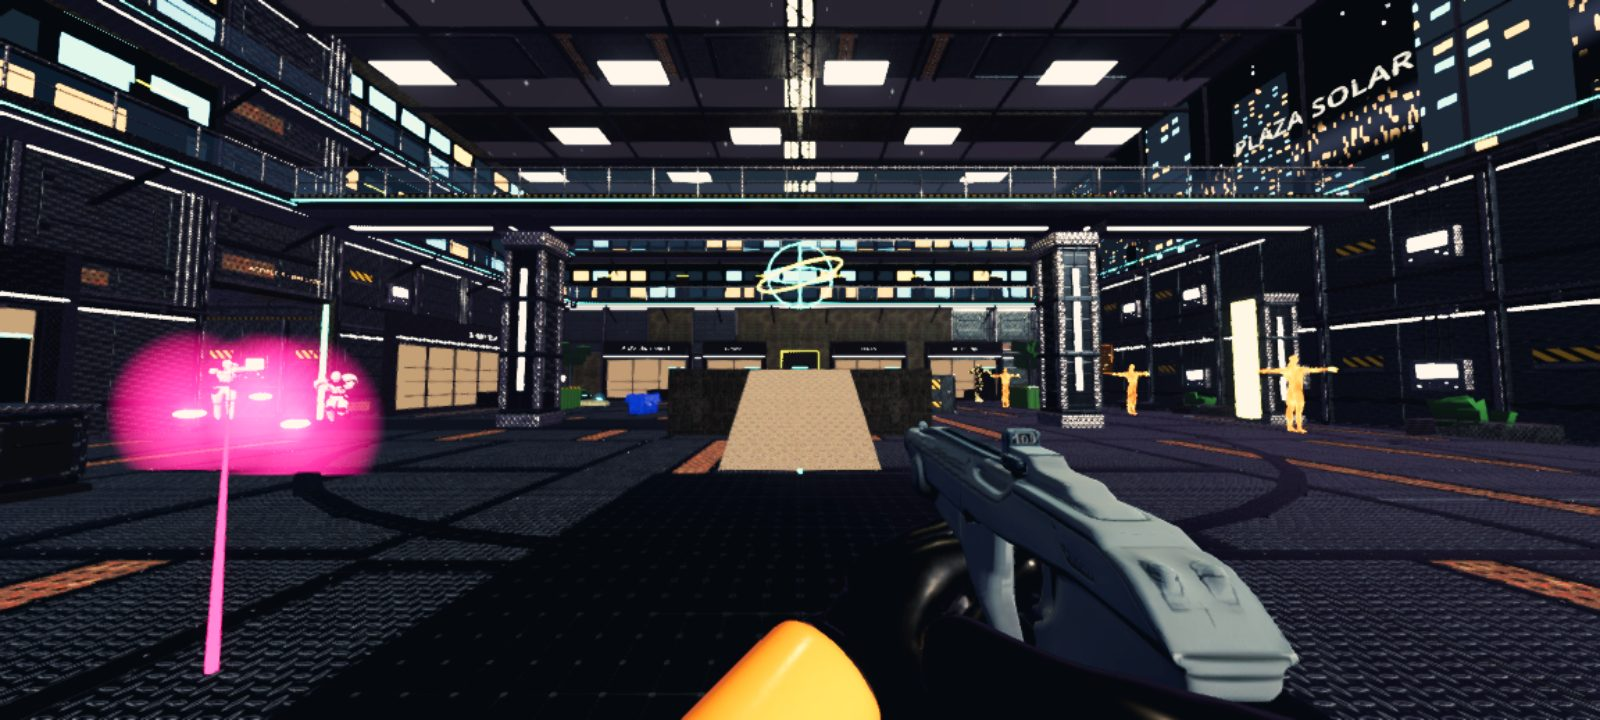
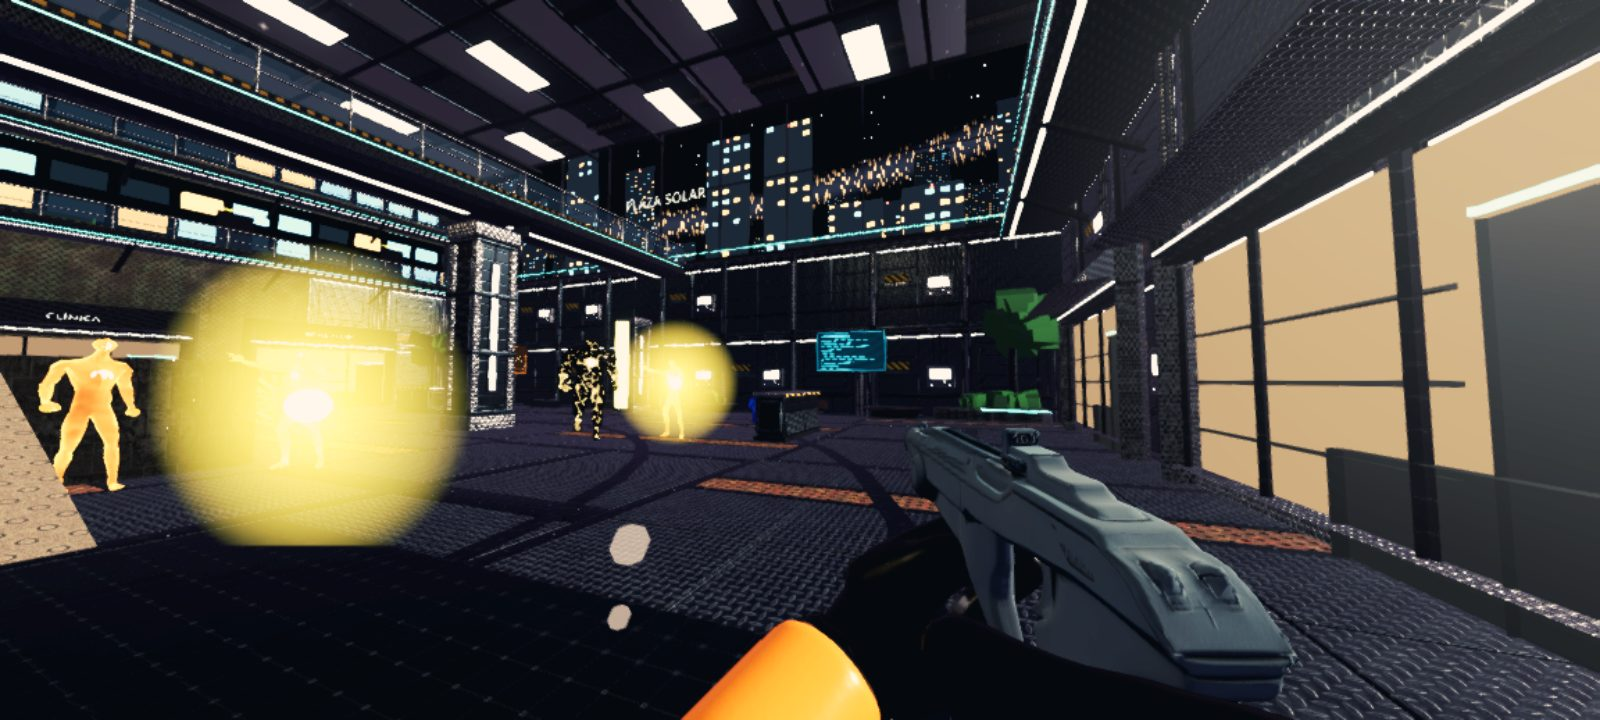
Helios: capturas con los enemigos en movimiento

diff --git a/helios/index.html b/helios/index.html
@@ -71,7 +71,7 @@
       </div>
       <div class="hero-card land-card" data-tilt>
         <div class="glow"></div>
-        <div class="phone land" data-slides><div class="screen"><img src="../img/hr-1-casco.jpg" loading="lazy" alt="Helios: gigantes de plasma en el casco exterior de la estación" width="1600" height="720" decoding="async"><img data-src="../img/hr-2-hangar.jpg" alt="Helios: enemigos esperando en el hangar" width="1600" height="720" decoding="async"><img data-src="../img/hr-3-control.jpg" alt="Helios: la sala de control y la columna de luz" width="1600" height="720" decoding="async"><img data-src="../img/hr-4-ciudad.jpg" alt="Helios: la ciudad de la estación de noche" width="1600" height="720" decoding="async"><img data-src="../img/hr-5-reactor.jpg" alt="Helios: pasillos oxidados junto al reactor" width="1600" height="720" decoding="async"></div></div>
+        <div class="phone land" data-slides><div class="screen"><img src="../img/hr-1-casco.jpg" loading="lazy" alt="Helios: gigantes de plasma atacando en el casco exterior de la estación" width="1600" height="720" decoding="async"><img data-src="../img/hr-2-hangar.jpg" alt="Helios: un gigante de plasma avanza por el hangar" width="1600" height="720" decoding="async"><img data-src="../img/hr-3-control.jpg" alt="Helios: un gigante de plasma en la sala de control" width="1600" height="720" decoding="async"><img data-src="../img/hr-4-ciudad.jpg" alt="Helios: la ciudad de la estación de noche" width="1600" height="720" decoding="async"><img data-src="../img/hr-5-reactor.jpg" alt="Helios: pasillos oxidados junto al reactor" width="1600" height="720" decoding="async"></div></div>
           <div class="dots" aria-label="Capturas"></div>
         <div class="chip c1"><span>🎯</span>Primera persona</div>
         <div class="chip c2"><span>🪐</span>Gravedad cero</div>
@@ -85,7 +85,7 @@
       <span class="kicker reveal">Capturas</span>
       <h2 class="reveal" style="--d:.05s">Una estación muerta junto a una estrella herida</h2>
       <p class="lead reveal" style="--d:.1s">Primera misión, «Luz Muerta»: del casco exterior al pozo del reactor. Desliza para ver más.</p>
-      <div class="shots land reveal" style="--d:.15s"><img src="../img/hr-1-casco.jpg" alt="Gigantes de plasma en el casco exterior de la estación" loading="lazy" width="1600" height="720"><img src="../img/hr-6-gigante.jpg" alt="Un Bramido en el hangar muerto" loading="lazy" width="1600" height="720"><img src="../img/hr-2-hangar.jpg" alt="Enemigos esperando en el hangar" loading="lazy" width="1600" height="720"><img src="../img/hr-3-control.jpg" alt="La sala de control y la columna de luz" loading="lazy" width="1600" height="720"><img src="../img/hr-8-atrio.jpg" alt="La Plaza Solar con el plasma magenta de Halcyon" loading="lazy" width="1600" height="720"><img src="../img/hr-4-ciudad.jpg" alt="La ciudad de la estación de noche" loading="lazy" width="1600" height="720"><img src="../img/hr-7-anillo.jpg" alt="El anillo del reactor" loading="lazy" width="1600" height="720"><img src="../img/hr-5-reactor.jpg" alt="Pasillos oxidados junto al reactor" loading="lazy" width="1600" height="720"></div>
+      <div class="shots land reveal" style="--d:.15s"><img src="../img/hr-1-casco.jpg" alt="Gigantes de plasma atacando en el casco exterior de la estación" loading="lazy" width="1600" height="720"><img src="../img/hr-6-gigante.jpg" alt="Un Bramido carga en el hangar muerto" loading="lazy" width="1600" height="720"><img src="../img/hr-2-hangar.jpg" alt="Un gigante de plasma avanza por el hangar" loading="lazy" width="1600" height="720"><img src="../img/hr-3-control.jpg" alt="Un gigante de plasma en la sala de control" loading="lazy" width="1600" height="720"><img src="../img/hr-8-atrio.jpg" alt="Disparos de plasma en la Plaza Solar" loading="lazy" width="1600" height="720"><img src="../img/hr-4-ciudad.jpg" alt="La ciudad de la estación de noche" loading="lazy" width="1600" height="720"><img src="../img/hr-7-anillo.jpg" alt="El anillo del reactor" loading="lazy" width="1600" height="720"><img src="../img/hr-5-reactor.jpg" alt="Pasillos oxidados junto al reactor" loading="lazy" width="1600" height="720"></div>
     </div>
   </section>
 

diff --git a/en/helios/index.html b/en/helios/index.html
@@ -71,7 +71,7 @@
       </div>
       <div class="hero-card land-card" data-tilt>
         <div class="glow"></div>
-        <div class="phone land" data-slides><div class="screen"><img src="../../img/hr-1-casco.jpg" loading="lazy" alt="Helios: plasma giants on the station’s outer hull" width="1600" height="720" decoding="async"><img data-src="../../img/hr-2-hangar.jpg" alt="Helios: enemies waiting in the hangar" width="1600" height="720" decoding="async"><img data-src="../../img/hr-3-control.jpg" alt="Helios: the control room and the column of light" width="1600" height="720" decoding="async"><img data-src="../../img/hr-4-ciudad.jpg" alt="Helios: the station city at night" width="1600" height="720" decoding="async"><img data-src="../../img/hr-5-reactor.jpg" alt="Helios: rusty corridors next to the reactor" width="1600" height="720" decoding="async"></div></div>
+        <div class="phone land" data-slides><div class="screen"><img src="../../img/hr-1-casco.jpg" loading="lazy" alt="Helios: plasma giants attacking on the station’s outer hull" width="1600" height="720" decoding="async"><img data-src="../../img/hr-2-hangar.jpg" alt="Helios: a plasma giant advances through the hangar" width="1600" height="720" decoding="async"><img data-src="../../img/hr-3-control.jpg" alt="Helios: a plasma giant in the control room" width="1600" height="720" decoding="async"><img data-src="../../img/hr-4-ciudad.jpg" alt="Helios: the station city at night" width="1600" height="720" decoding="async"><img data-src="../../img/hr-5-reactor.jpg" alt="Helios: rusty corridors next to the reactor" width="1600" height="720" decoding="async"></div></div>
           <div class="dots" aria-label="Screenshots"></div>
         <div class="chip c1"><span>🎯</span>First person</div>
         <div class="chip c2"><span>🪐</span>Zero gravity</div>
@@ -85,7 +85,7 @@
       <span class="kicker reveal">Screenshots</span>
       <h2 class="reveal" style="--d:.05s">A dead station next to a wounded star</h2>
       <p class="lead reveal" style="--d:.1s">First mission, “Dead Light”: from the outer hull down to the reactor shaft. Swipe to see more.</p>
-      <div class="shots land reveal" style="--d:.15s"><img src="../../img/hr-1-casco.jpg" alt="Plasma giants on the station’s outer hull" loading="lazy" width="1600" height="720"><img src="../../img/hr-6-gigante.jpg" alt="A Bramido in the dead hangar" loading="lazy" width="1600" height="720"><img src="../../img/hr-2-hangar.jpg" alt="Enemies waiting in the hangar" loading="lazy" width="1600" height="720"><img src="../../img/hr-3-control.jpg" alt="The control room and the column of light" loading="lazy" width="1600" height="720"><img src="../../img/hr-8-atrio.jpg" alt="The Solar Plaza with Halcyon’s magenta plasma" loading="lazy" width="1600" height="720"><img src="../../img/hr-4-ciudad.jpg" alt="The station city at night" loading="lazy" width="1600" height="720"><img src="../../img/hr-7-anillo.jpg" alt="The reactor ring" loading="lazy" width="1600" height="720"><img src="../../img/hr-5-reactor.jpg" alt="Rusty corridors next to the reactor" loading="lazy" width="1600" height="720"></div>
+      <div class="shots land reveal" style="--d:.15s"><img src="../../img/hr-1-casco.jpg" alt="Plasma giants attacking on the station’s outer hull" loading="lazy" width="1600" height="720"><img src="../../img/hr-6-gigante.jpg" alt="A Bramido charges in the dead hangar" loading="lazy" width="1600" height="720"><img src="../../img/hr-2-hangar.jpg" alt="A plasma giant advances through the hangar" loading="lazy" width="1600" height="720"><img src="../../img/hr-3-control.jpg" alt="A plasma giant in the control room" loading="lazy" width="1600" height="720"><img src="../../img/hr-8-atrio.jpg" alt="Plasma fire in the Solar Plaza" loading="lazy" width="1600" height="720"><img src="../../img/hr-4-ciudad.jpg" alt="The station city at night" loading="lazy" width="1600" height="720"><img src="../../img/hr-7-anillo.jpg" alt="The reactor ring" loading="lazy" width="1600" height="720"><img src="../../img/hr-5-reactor.jpg" alt="Rusty corridors next to the reactor" loading="lazy" width="1600" height="720"></div>
     </div>
   </section>
 

diff --git a/index.html b/index.html
@@ -159,7 +159,7 @@
         </div>
         <div class="hero-card game-card land-card reveal" style="--d:.1s" data-tilt>
           <div class="glow"></div>
-          <div class="phone land" data-slides><div class="screen"><img src="img/hr-1-casco.jpg" loading="lazy" alt="Helios: gigantes de plasma en el casco exterior de la estación" width="1600" height="720" decoding="async"><img data-src="img/hr-2-hangar.jpg" alt="Helios: enemigos esperando en el hangar" width="1600" height="720" decoding="async"><img data-src="img/hr-3-control.jpg" alt="Helios: la sala de control y la columna de luz" width="1600" height="720" decoding="async"><img data-src="img/hr-4-ciudad.jpg" alt="Helios: la ciudad de la estación de noche" width="1600" height="720" decoding="async"><img data-src="img/hr-5-reactor.jpg" alt="Helios: pasillos oxidados junto al reactor" width="1600" height="720" decoding="async"></div></div>
+          <div class="phone land" data-slides><div class="screen"><img src="img/hr-1-casco.jpg" loading="lazy" alt="Helios: gigantes de plasma atacando en el casco exterior de la estación" width="1600" height="720" decoding="async"><img data-src="img/hr-2-hangar.jpg" alt="Helios: un gigante de plasma avanza por el hangar" width="1600" height="720" decoding="async"><img data-src="img/hr-3-control.jpg" alt="Helios: un gigante de plasma en la sala de control" width="1600" height="720" decoding="async"><img data-src="img/hr-4-ciudad.jpg" alt="Helios: la ciudad de la estación de noche" width="1600" height="720" decoding="async"><img data-src="img/hr-5-reactor.jpg" alt="Helios: pasillos oxidados junto al reactor" width="1600" height="720" decoding="async"></div></div>
           <div class="dots" aria-label="Capturas"></div>
           <div class="chip c1"><span>🎯</span>Primera persona</div>
           <div class="chip c2"><span>🪐</span>Gravedad cero</div>

diff --git a/en/index.html b/en/index.html
@@ -159,7 +159,7 @@
         </div>
         <div class="hero-card game-card land-card reveal" style="--d:.1s" data-tilt>
           <div class="glow"></div>
-          <div class="phone land" data-slides><div class="screen"><img src="../img/hr-1-casco.jpg" loading="lazy" alt="Helios: plasma giants on the station&#x27;s outer hull" width="1600" height="720" decoding="async"><img data-src="../img/hr-2-hangar.jpg" alt="Helios: enemies waiting in the hangar" width="1600" height="720" decoding="async"><img data-src="../img/hr-3-control.jpg" alt="Helios: the control room and the column of light" width="1600" height="720" decoding="async"><img data-src="../img/hr-4-ciudad.jpg" alt="Helios: the station city at night" width="1600" height="720" decoding="async"><img data-src="../img/hr-5-reactor.jpg" alt="Helios: rusty corridors next to the reactor" width="1600" height="720" decoding="async"></div></div>
+          <div class="phone land" data-slides><div class="screen"><img src="../img/hr-1-casco.jpg" loading="lazy" alt="Helios: plasma giants attacking on the station&#x27;s outer hull" width="1600" height="720" decoding="async"><img data-src="../img/hr-2-hangar.jpg" alt="Helios: a plasma giant advances through the hangar" width="1600" height="720" decoding="async"><img data-src="../img/hr-3-control.jpg" alt="Helios: a plasma giant in the control room" width="1600" height="720" decoding="async"><img data-src="../img/hr-4-ciudad.jpg" alt="Helios: the station city at night" width="1600" height="720" decoding="async"><img data-src="../img/hr-5-reactor.jpg" alt="Helios: rusty corridors next to the reactor" width="1600" height="720" decoding="async"></div></div>
           <div class="dots" aria-label="Screenshots"></div>
           <div class="chip c1"><span>🎯</span>First person</div>
           <div class="chip c2"><span>🪐</span>Zero gravity</div>
